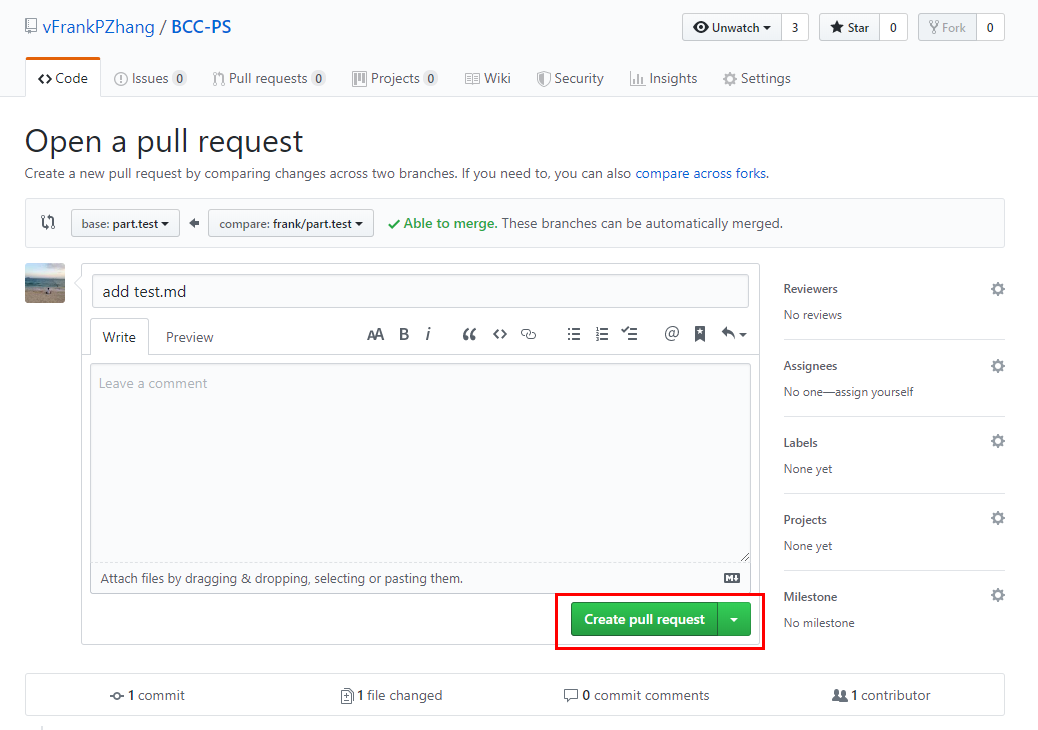
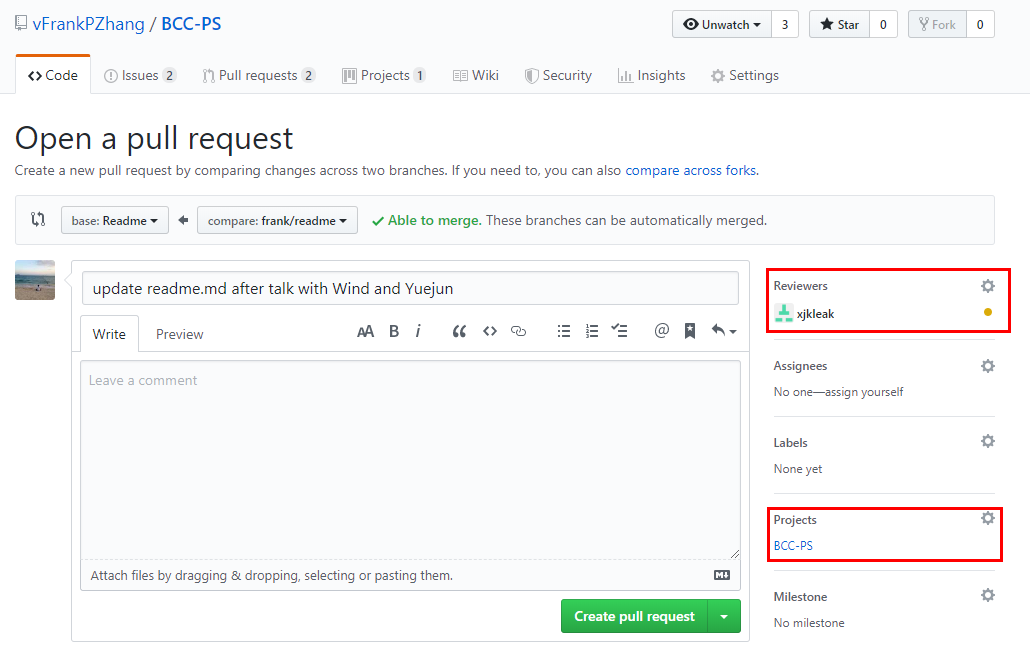
update with new process

diff --git a/README.md b/README.md
@@ -79,7 +79,7 @@
 
 ![pull request 1](images/readme.pullrequest.1.png)
 
-    10. 将你的分支you/part.test pull request 给part.test
+    10. 将你的分支“you/part.test”pull request给“part.test”，并指定校对者和项目
 
 ![pull request 2](images/readme.pullrequest.2.png)
 
@@ -87,9 +87,26 @@
 
 ![pull request 3](images/readme.pullrequest.3.png)
 
+    点击小齿轮，指定校对者和所属项目，并点击“Create pull request”：
+
 ![pull request 4](images/readme.pullrequest.4.png)
 
-    11. 
+---
+    至此，章节的Owner完成了内容的pull request
+---
+
+    11. 校对者开始对“pull reuqest”进行校对
+
+    点击某一行前面的蓝色加号，可以在该行下面，为该行添加批注。
+
+![pull request 5](images/readme.pullrequest.5.png)
+
+    如：
+
+![pull request 6](images/readme.pullrequest.6.png)
+
+    然后，点击“start a review”开始review。
+
 
 # 文字稿
 
